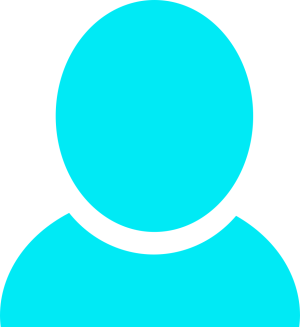
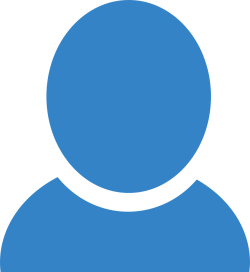
Change player 1 color to blue; randomize player colors; change game button colors to red

diff --git a/src/app/game/game.component.ts b/src/app/game/game.component.ts
@@ -30,18 +30,21 @@ export class GameComponent implements OnInit, OnDestroy, AfterViewInit {
 
   readonly totalTrials = 96;
 
-  // Remove this later
-  oppReturn: number; 
-
   endowment: number = 0.5;
   endowmentSubmitted: boolean;
   flip: string = 'inactive';
   gameOver: boolean;
+  imgPaths: string[] = [
+    '/assets/images/player_blue.png',
+    '/assets/images/player_yellow.png',
+    '/assets/images/player_orange.png'
+  ]
   inTrial: boolean;
   isDelay: boolean;
   netGain: number = 0;
   oppIds: number[];
   opponent: OpponentComponent; 
+  oppReturn: number; 
   playerImgPath: string = '/assets/images/player_purple.png';
   trialNumber: number = 1;
   oppSettings: {
@@ -90,6 +93,7 @@ export class GameComponent implements OnInit, OnDestroy, AfterViewInit {
     this.checkGameOver(); 
     this.trialNumber++;
     this.flip = 'inactive';
+    this.setColors();
   }
 
   selectOpponent(): void {
@@ -130,21 +134,9 @@ export class GameComponent implements OnInit, OnDestroy, AfterViewInit {
     }
   }
 
-  createRoundOrder(): number[] {
-    let ids: number[] = [];
-    let id: number;
-    for (let i = 0; i < 3; i++) {
-      do {
-        id = Math.floor(Math.random() * 3);
-      } while (ids.includes(id));
-      ids.push(id); 
-    }
-    return ids;
-  }
-
   getOppId(): number {
     if (this.trialNumber % 3 === 1) {
-      this.oppIds = this.createRoundOrder();
+      this.oppIds = this.randomizeOpponents();
     }
     return this.oppIds.shift();
   }
@@ -157,6 +149,26 @@ export class GameComponent implements OnInit, OnDestroy, AfterViewInit {
     }
     let remainder = this.trialNumber % 24;
     return this.trialNumber < 84 && (remainder === 0 || remainder > 12 && remainder < 24);
+  }
+
+  randomizeOpponents(): number[] {
+    let ids: number[] = [];
+    let id: number;
+    for (let i = 0; i < 3; i++) {
+      do {
+        id = Math.floor(Math.random() * 3);
+      } while (ids.includes(id));
+      ids.push(id); 
+    }
+    return ids;
+  }
+
+  setColors(): void {
+    let oppOrder = this.randomizeOpponents();
+    oppOrder.forEach((oppId, index) => {
+      this.oppSettings[index].img = this.imgPaths[oppId];
+      this.oppArray[index].player.id = oppId + 1;
+    });
   }
 
   setDelay(): void {

diff --git a/src/app/game/game.component.css b/src/app/game/game.component.css
@@ -38,6 +38,7 @@
   -webkit-box-shadow: -1px 3px 30px -4px rgba(68,68,68,1);
   -moz-box-shadow: -1px 3px 30px -4px rgba(68,68,68,1);
   box-shadow: -1px 3px 30px -4px rgba(68,68,68,1);
+  background-color: #f71b58;
 }
 
 h4 {
@@ -162,7 +163,7 @@ input[type=range]::-moz-range-thumb {
   width: 300px;
   height: 130px;
   border-radius: 40px;
-  background-color: #3bd4f2;
+  background-color: #f71b58;
   color: white;
   -webkit-box-shadow: -1px 3px 30px -4px rgba(68,68,68,1);
   -moz-box-shadow: -1px 3px 30px -4px rgba(68,68,68,1);

diff --git a/src/app/game/game.component.html b/src/app/game/game.component.html
@@ -50,7 +50,7 @@
       <div class="opponent card player">
         <div class="player-info">
           <img [src]="opponent.img">
-          <div class="player-name" [ngStyle]="{'background-color': opponent.player.id === 1 ? '#9ee64f' : opponent.player.id === 2 ? '#ffc900' : '#ff8411'}">
+          <div class="player-name" [ngStyle]="{'background-color': opponent.player.id === 1 ? '#3483c7' : opponent.player.id === 2 ? '#ffc900' : '#ff8411'}">
             {{ opponent.player.name }}
           </div>
         </div>

diff --git a/src/app/opponent/opponent.component.html b/src/app/opponent/opponent.component.html
@@ -1,7 +1,7 @@
 <div class="card player">
   <div class="player-info">
     <div><img [src]="img"></div>
-    <div class="player-name" [ngStyle]="{'background-color': player.id === 1 ? '#9ee64f' : player.id === 2 ? '#ffc900' : '#ff8411'}">{{ player.name }}</div>
+    <div class="player-name" [ngStyle]="{'background-color': player.id === 1 ? '#3483c7' : player.id === 2 ? '#ffc900' : '#ff8411'}">{{ player.name }}</div>
   </div> <!-- #player-info -->
 </div> <!-- #player -->
 
